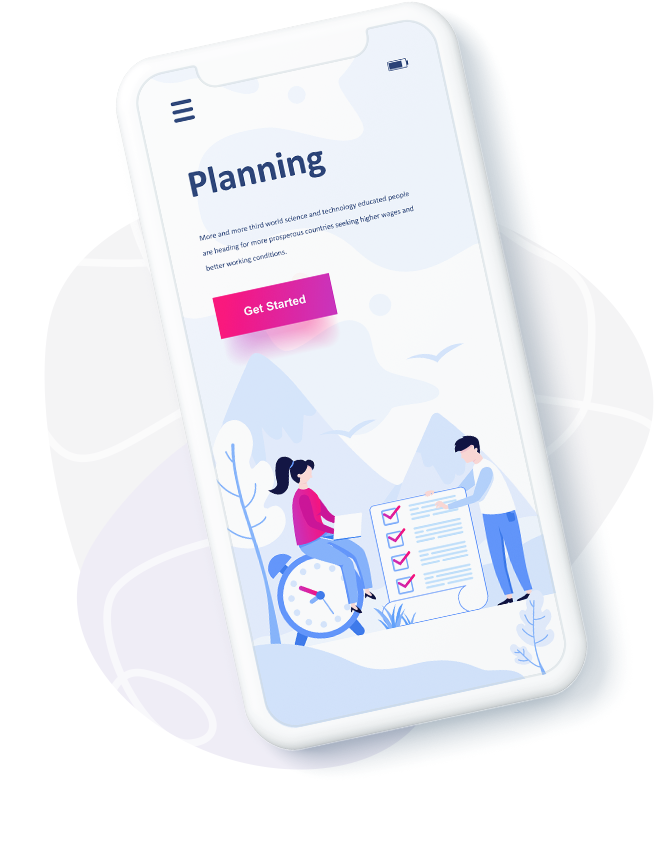
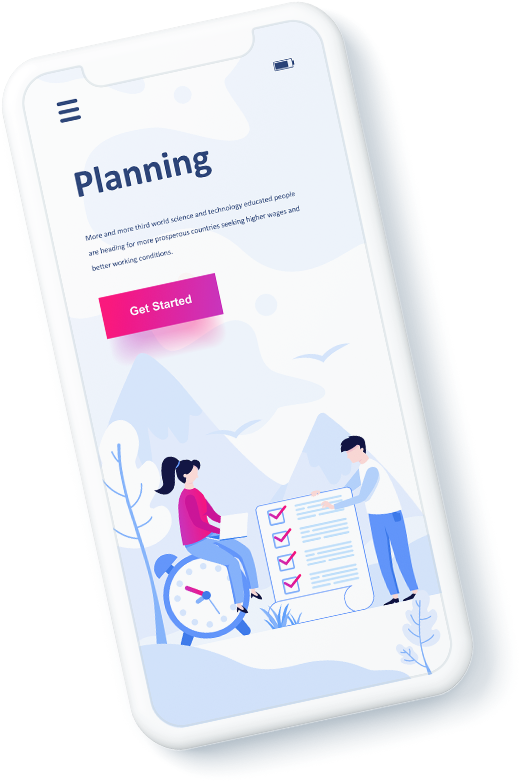
Phone v1

diff --git a/index.html b/index.html
@@ -75,7 +75,7 @@
         <div class="container">
             <div class="row">
                 <div class="col-xl-6 features__awesome">
-                    <img src="./img/Phone1.png" width="100%" alt="">
+                    <img src="./img/dPhone.png" width="100%" alt="">
                 </div>
                 <div class="col-xl-5 features__content">
                     <h2 class="features__title">Awesome apps<br>
